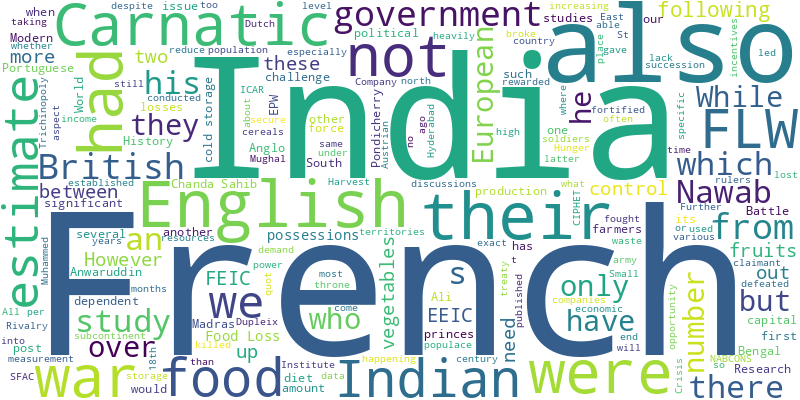
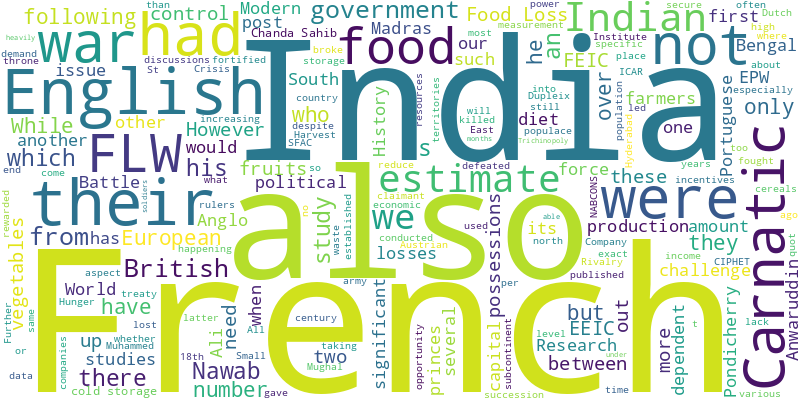
🤖 Auto-update stats

diff --git a/stats.html b/stats.html
@@ -18,7 +18,7 @@
     <section class="stats-section stat-card"><h2>📖 Readability</h2><p><strong>foodloss.html:</strong> Flesch: 37.2, Grade: 14.0</p><p><strong>Anglo-French-Rivalry.html:</strong> Flesch: 48.6, Grade: 11.3</p></section>
     <section class="stats-section stat-card"><h2>🙂 Sentiment</h2><p><strong>foodloss.html:</strong> Polarity: 0.04, Subjectivity: 0.48</p><p><strong>Anglo-French-Rivalry.html:</strong> Polarity: 0.03, Subjectivity: 0.22</p></section>
     <section class="stats-section stat-card"><h2>🏷️ Named Entities</h2><ul><li>NORP: 58.000</li><li>DATE: 27.000</li><li>GPE: 24.000</li><li>ORG: 12.000</li><li>PERSON: 9.000</li><li>CARDINAL: 8.000</li><li>LANGUAGE: 7.000</li><li>ORDINAL: 3.000</li><li>LOC: 2.000</li><li>PERCENT: 1.000</li></ul></section>
-    <section class="stats-section stat-card"><h2>🔑 Keywords</h2><p><strong>foodloss.html:</strong> food, flw, we, also, study, not, have, fruits, estimates, need</p><p><strong>Anglo-French-Rivalry.html:</strong> french, their, english, carnatic, india, had, were, british, war, his</p></section>
+    <section class="stats-section stat-card"><h2>🔑 Keywords</h2><p><strong>foodloss.html:</strong> food, flw, we, also, study, not, have, estimates, estimate, fruits</p><p><strong>Anglo-French-Rivalry.html:</strong> french, their, english, carnatic, india, were, had, war, british, his</p></section>
     <section class="stats-section stat-card"><h2>🌈 Word Cloud</h2><img src="wordcloud.png" alt="Word Cloud" /></section>
   </div>
 </body>